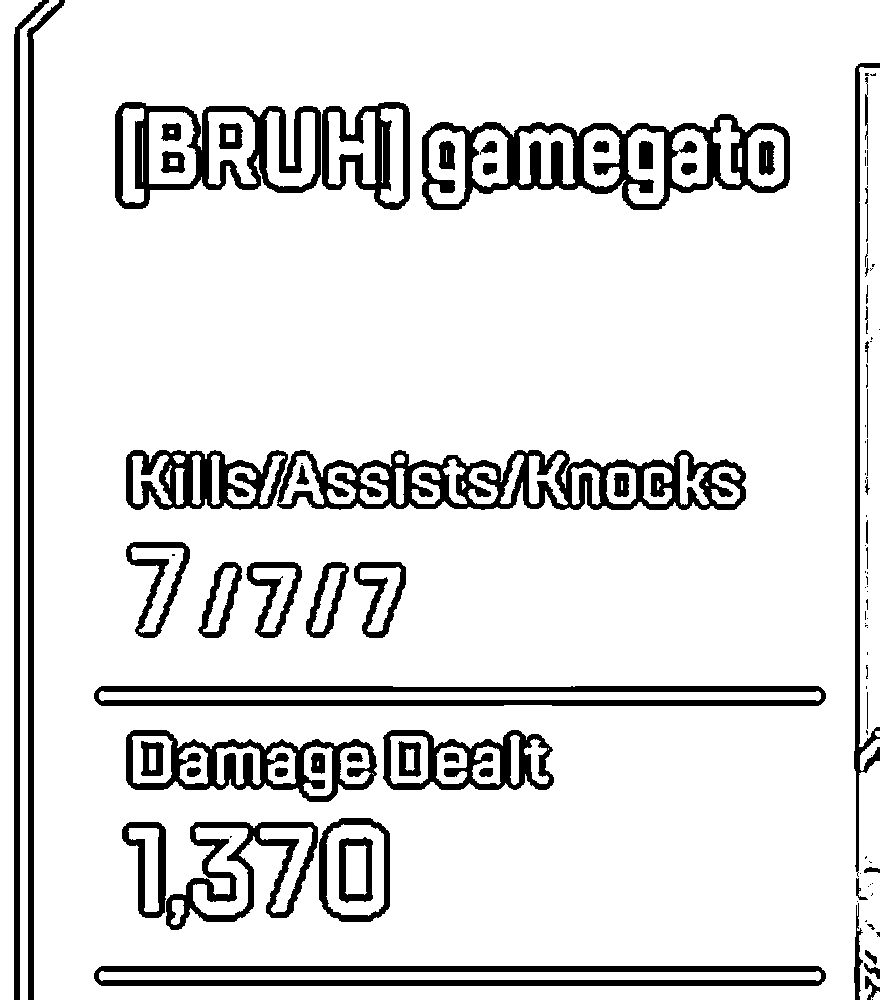
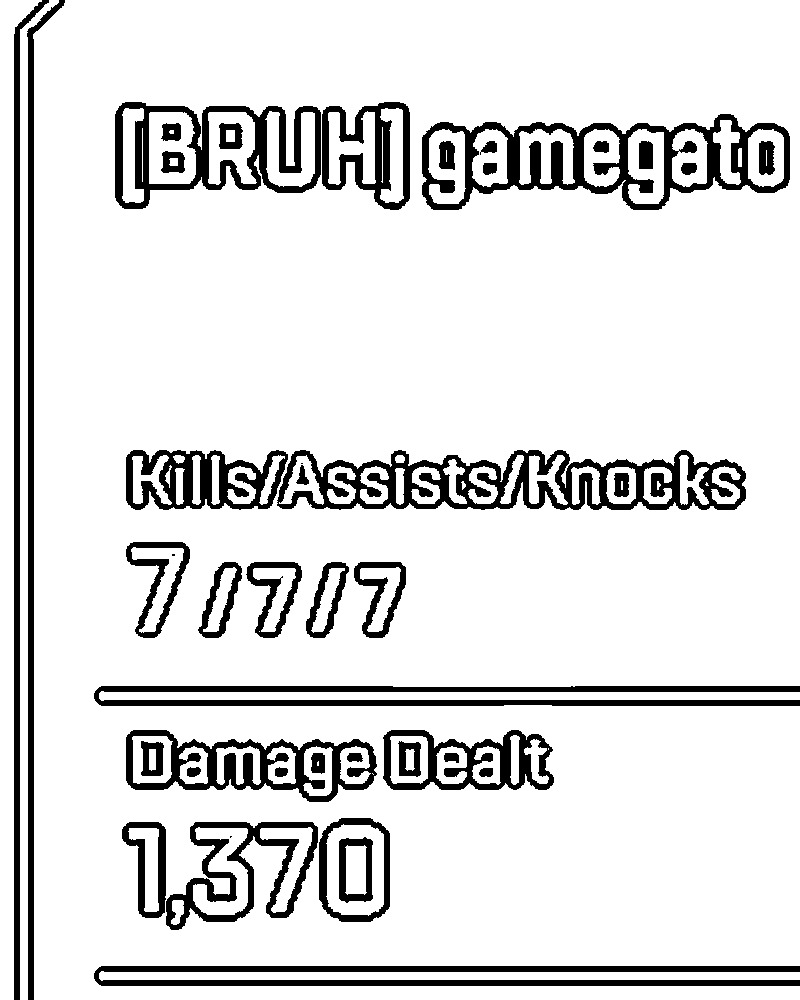
streamlined crop.py for debugging

diff --git a/crop.py b/crop.py
@@ -8,14 +8,14 @@ image = cv2.imread('Apex_Scoreboard.png')
 # Define the coordinates of the region of interest (ROI)
 x, y, w, h = 100, 50, 330, 50
 k, l, m, n = 1470, 120, 100, 75
-aa, ab, ac, ad, ae = 200, 270, 220, 250, 475
+aa, ab, ac, ad, ae = 200, 270, 200, 250, 475
 
 # Crop the image
 cropped_image_codeword = image[y:y+h, x:x+w]
 cropped_image_placement = image[l:l+n, k:k+m]
 cropped_img_p1 = image[ab:ab+ad, aa:aa+ac]
 cropped_img_p2 = image[ab:ab+ad, aa+ae:aa+ac+ae]
-cropped_img_p3 = image[ab:ab+ad, aa+(2*ae):aa+(2*ae)+ac+150]
+cropped_img_p3 = image[ab:ab+ad, aa+(ac):aa+(2*ae)+ac+150]
 
 cropped_image_codeword = cv2.resize(cropped_image_codeword, None, fx=2, fy=2, interpolation=cv2.INTER_CUBIC)
 cropped_image_placement = cv2.resize(cropped_image_placement, None, fx=2, fy=2, interpolation=cv2.INTER_CUBIC)
